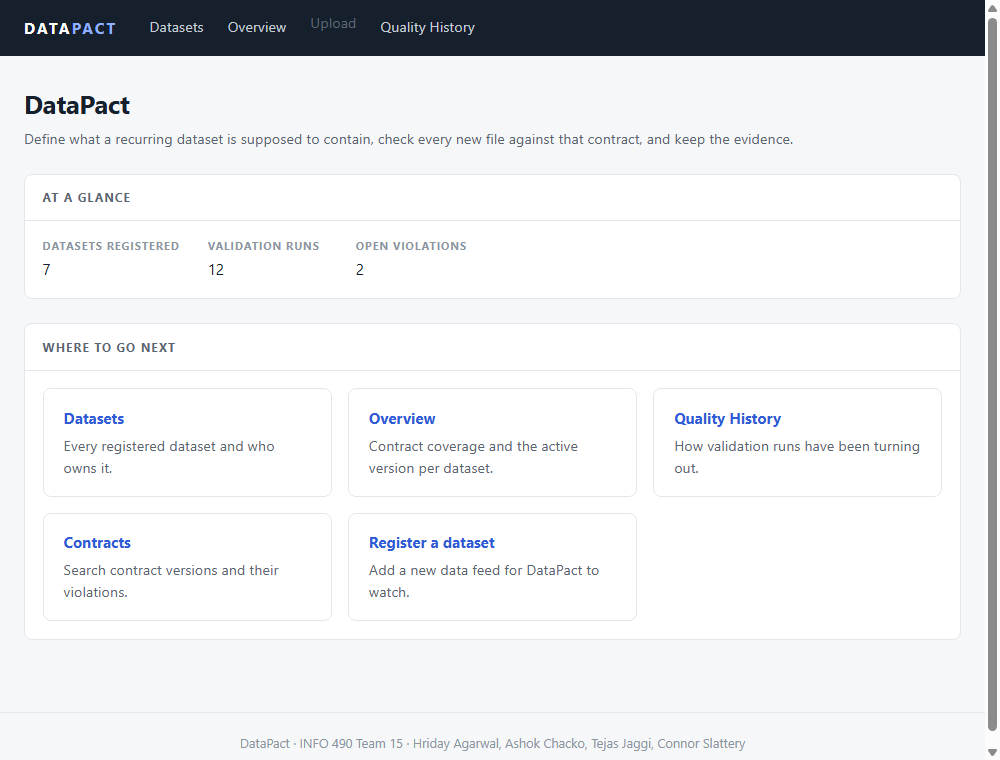
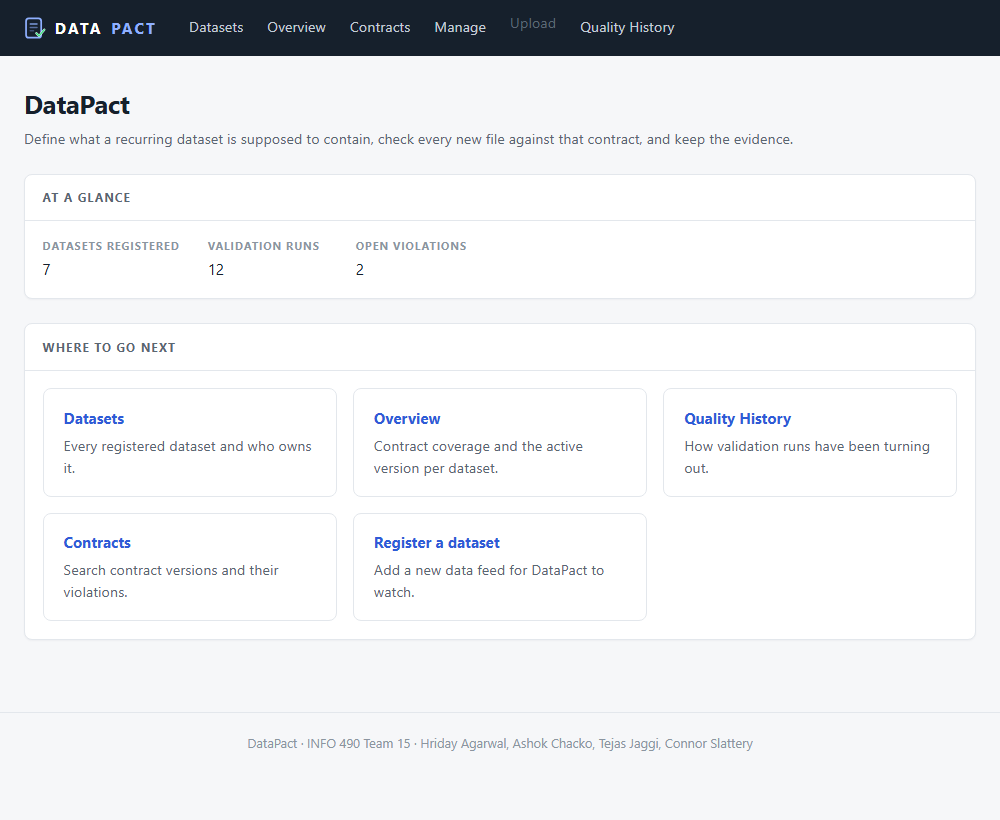
docs(a3): refresh evidence and correct counts after the Section 3 merge
The five Section 1/4 screenshots were taken before Ashok's stylesheet
existed, so they showed a site that no longer looks like this one. All
five re-captured against the integrated app: the header logo, the
external CSS and the Contracts/Manage/Quality History nav are all in
them now.

Corrected claims the merge made untrue:
- test count is 102 (70 on main after Section 3, plus 32 here), not 88
- the figure-leak test is now two tests, described accordingly
- "Section 3 is still to come" is no longer true

Re-checked the narrow-viewport note rather than repeating it: below
about 420px the nav now wraps instead of being cut off, but the body,
wide tables and footer still overflow. /datasets/ does the same, so it
is the shared shell, not Sections 1 and 4.

Adds section 40 recording what the merge involved, how each of the five
conflicts was resolved, and the one regression it surfaced.

Ashok's own Section 3 screenshots still show Quality History as a
placeholder rather than the live link it now is. The CSS behaviour they
demonstrate is unaffected, so they are left as he took them and flagged
for the team instead.

diff --git a/README.md b/README.md
@@ -207,7 +207,7 @@ A full request/response transcript of both modes is in
 python manage.py test data_quality
 ```
 
-57 tests: the three A2 class-based views, the templates, the render() view, the settings split, `ContractSearchView`, and `DatasetManageView`. Run them before you open a pull request.
+102 tests: the A2 class-based views, the templates, the render() view, the settings split, `ContractSearchView`, `DatasetManageView`, the static-file and cache-busting checks, and the home page, navigation and Quality History chart. Run them before you open a pull request.
 
 ## A3, Section 2 & Section 5 (Hriday)
 
